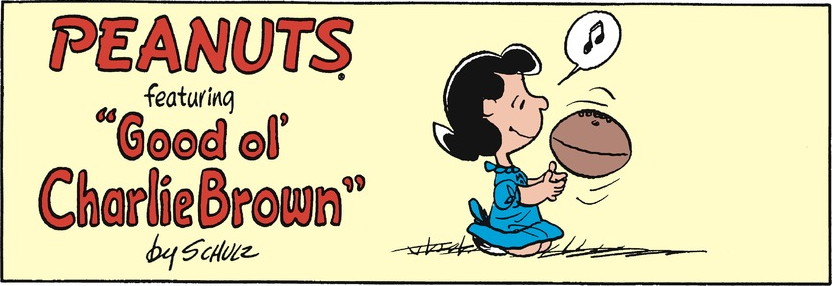
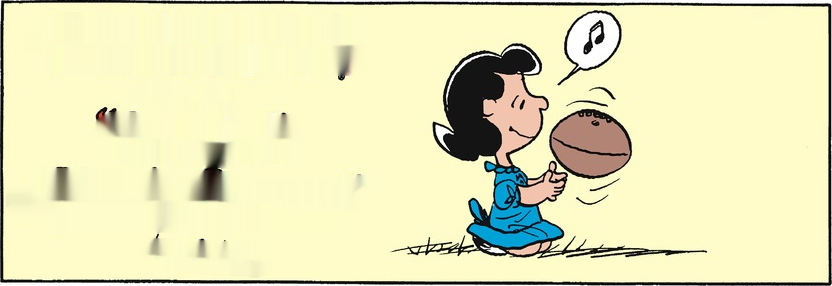
modified:   data/notext/peanuts_0_0.png 	modified:   data/notext/peanuts_0_1.png 	modified:   data/notext/peanuts_0_2.png 	modified:   data/notext/peanuts_0_3.png 	modified:   data/notext/peanuts_0_4.png 	modified:   data/notext/peanuts_0_5.png 	deleted:    data/notext/peanuts_0_6.png 	deleted:    d

Changed region(s): [[0.0312, 0.2797, 0.4375, 0.8112], [0.0312, 0.028, 0.4375, 0.2797], [0.1562, 0.8392, 0.3125, 0.951]]

diff --git a/src/text_extractor/main.py b/src/text_extractor/main.py
@@ -55,15 +55,17 @@ def resize_img(cv2, path, output_path):
 
 if __name__ == "__main__":
     # get transcriptions
-    create_dir(no_text)
-    ocr = OCR("tesseract")
+    # create_dir(no_text)
+    # ocr = OCR("tesseract")
     splitted_images_paths = [os.path.join(splitted_images, file) for file in os.listdir(splitted_images)]
-    transcriptions = ocr.extract_text(splitted_images_paths, clustering=True)
+    # transcriptions = ocr.extract_text(splitted_images_paths, rescale=True, binarize=True, clustering=True, autocorrect=True)
     
-    for image, words in transcriptions.items():
-        no_text_img = ocr.remove_text(image, words)
-        output = no_text + os.path.basename(image)
-        cv2.imwrite(output, no_text_img)
+    # for image, words in transcriptions.items():
+    #     no_text_img = ocr.remove_text(image, words)
+    #     img_rgb = cv2.cvtColor(no_text_img, cv2.COLOR_BGR2RGB)
+    #     output = no_text + os.path.basename(image)
+        
+    #     cv2.imwrite(‘text_free_image.jpg’,img_rgb)
 
     # create_dir(resized)
     # # save and visualize
@@ -82,3 +84,23 @@ if __name__ == "__main__":
     #     check_img(path)
     #     resize_img(cv2, path, resized)
     
+    # get transcriptions
+    ocr = OCR("tesseract")
+    transcriptions = ocr.extract_text(splitted_images_paths, clustering=True)
+
+    create_dir(no_text)
+    # save and visualize
+    for path in splitted_images_paths:
+    #for path in [os.path.join(no_text, file) for file in os.listdir(no_text)]:
+        img = cv2.imread(path)
+        head, tail = os.path.split(path)
+        words = transcriptions[path][0]
+        bbox = transcriptions[path][1]
+        wds = words.split(" ")
+        img = inpaint_text(img)
+        
+        cv2.imwrite(os.path.join(no_text, tail), img)
+        cv2.imshow("image", img)
+        cv2.waitKey(0)
+        check_img(path)
+        resize_img(cv2, path, '../../data/resized/')

diff --git a/src/text_extractor/TesseractOCR.py b/src/text_extractor/TesseractOCR.py
@@ -40,6 +40,7 @@ class TesseractOCR:
         :param words: words to remove
         :return: cleaned image
         """
+        print (image)
         img = cv2.imread(image)
         gray = cv2.cvtColor(img, cv2.COLOR_BGR2GRAY)
         thresh = cv2.threshold(gray, 0, 255, cv2.THRESH_BINARY + cv2.THRESH_OTSU)[1]
@@ -53,7 +54,6 @@ class TesseractOCR:
             ROI = thresh[y:y+h, x:x+w]
             data = tess.image_to_string(ROI, lang='eng',config='--psm 6').lower()
             if words[0] in data:
-                print(words[0])
                 img[y:y+h, x:x+w] = [255,255,255]
         
         return img

diff --git a/src/text_extractor/OCRPostprocessor.py b/src/text_extractor/OCRPostprocessor.py
@@ -99,7 +99,7 @@ def aggl_cluster(bboxes):
     for i in range(n):
         for j in range(n):
             distances[i, j] = distance(bboxes[i], bboxes[j])
-    cluster = AgglomerativeClustering(n_clusters=None, distance_threshold=tolerance, affinity='precomputed',
+    cluster = AgglomerativeClustering(n_clusters=None, distance_threshold=tolerance, metric='euclidean',
                                       linkage='single')
     cluster.fit(distances)
     return cluster.labels_

diff --git a/src/text_extractor/TextExtractor.py b/src/text_extractor/TextExtractor.py
@@ -59,7 +59,6 @@ class OCR:
             sub_result.append(words)
             result[path] = sub_result
 
-        print(result)
         return result
 
     def remove_text(self, image, words):
